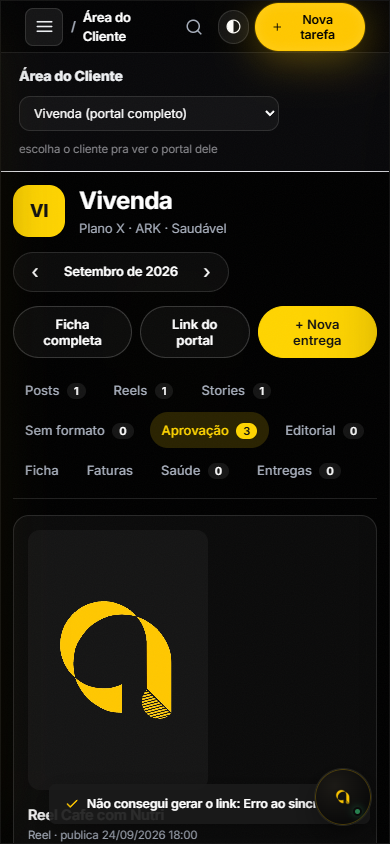
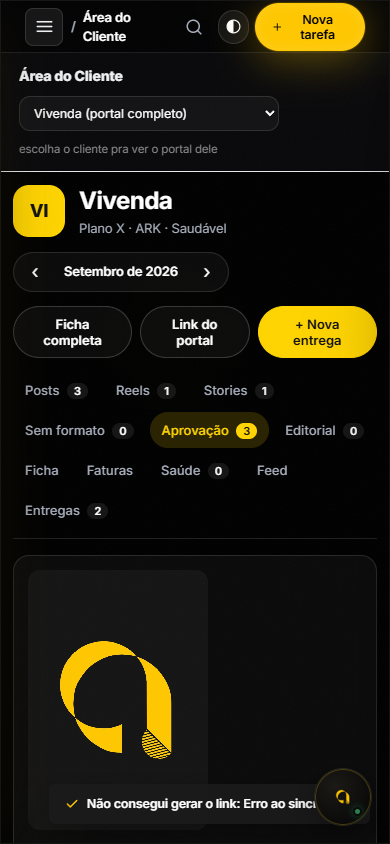
Área do Cliente: prévia do feed, a grade do perfil como o cliente vai ver, marcador 20260922f-feed-cliente
Segunda metade da tela 5 do doc 11. Aba Feed com a grade de 3 colunas, na ordem de
publicação (mais novo primeiro, sem data por último), story fora porque não entra na grade
do perfil, e contorno amarelo no que ainda vai publicar, com a data e o aviso de quem
ainda espera o cliente.

Lógica no módulo puro src/lib/feed.js, teste escrito antes em deploy/teste-feed.mjs
(10 asserções verdes); a tela espelha o módulo. Par do cliente vira 20260922d.

Prova: deploy/prova-aprovacao.py confere 3 itens na grade, 3 artes carregadas e 1 marcado
como futuro, mais a captura da grade. teste:mobile e os testes de entregas e aprovação
verdes.

diff --git a/public/workflowark-cliente-20260922d.js b/public/workflowark-cliente-20260922d.js
@@ -106,6 +106,44 @@
       };
     });
   }
+  /* ===== PREVIA DO FEED (tela 5 do doc 11, 22/09/2026) =====
+     Espelho de src/lib/feed.js (testado em deploy/teste-feed.mjs). Story fica fora: nao
+     aparece na grade do perfil. */
+  var FEED_FORA = ["story", "stories"];
+  function feedDerivar(tarefas, limite) {
+    var agora = Date.now();
+    return (tarefas || [])
+      .filter(function (t) {
+        return (
+          FEED_FORA.indexOf(String(t.formato || "").toLowerCase()) < 0 &&
+          (t.status === "concluido" || t.status === "homologcli")
+        );
+      })
+      .map(function (t) {
+        var pv = aprPrevia(aprAnexos(t));
+        if (!pv || pv.tipo !== "imagem") return null;
+        var quando = String(t.publicarEm || "");
+        return {
+          id: t.id,
+          titulo: t.title || "(sem titulo)",
+          formato: t.formato || "",
+          proporcao: APR_PROP[String(t.formato || "").toLowerCase()] || "4:5",
+          publicarEm: quando,
+          futuro: !!quando && new Date(quando).getTime() > agora,
+          aprovado: t.status === "concluido",
+          previa: pv,
+        };
+      })
+      .filter(Boolean)
+      .sort(function (a, b) {
+        if (!a.publicarEm && !b.publicarEm) return 0;
+        if (!a.publicarEm) return 1;
+        if (!b.publicarEm) return -1;
+        return b.publicarEm.localeCompare(a.publicarEm);
+      })
+      .slice(0, limite || 12);
+  }
+
   function editorial() {
     try {
       var a = JSON.parse(localStorage.getItem("wfa-editorial") || "[]");
@@ -256,6 +294,7 @@
       ["ficha", "Ficha", ""],
       ["faturas", "Faturas", ""],
       ["saude", "Saúde", atras.length],
+      ["feed", "Feed", ""],
       ["entregas", "Entregas", todas.filter(function (t) { return t.status === "concluido" && ((t.attachments || []).length || t.legenda || t.publicarEm); }).length],
     ];
     var html =
@@ -476,6 +515,25 @@
             return '<div class="nxc-row" data-tid="' + esc(t.id) + '" onclick="openTaskDetail(this.getAttribute(&quot;data-tid&quot;))" style="cursor:pointer"><span class="nxc-dot" style="background:#4ade80"></span><span class="t"><b>' + esc(t.title || "") + '</b><span>' + (t.formato ? FMT[t.formato] + " · " : "") + (t.publicarEm ? "publica " + brData(t.publicarEm) : "entregue " + brData(t.concluidaEm)) + (links.length ? " · " + links.length + " arquivo(s)" : " · sem arquivo") + '</span></span>' + (links.length ? '<a class="nxc-mini" href="' + esc(links[0].url) + '" target="_blank" rel="noreferrer" onclick="event.stopPropagation()">Abrir</a>' : "") + "</div>";
           }).join("") + '</div><p class="nxc-mute" style="margin-top:10px;font-size:12px">É isto que o cliente vê no portal (link sem login). Anexe o arquivo ou o link do Drive na tarefa antes de concluir.</p>'
         : '<div class="nxc-empty">Nenhuma entrega concluída com arquivo, legenda ou data ainda.</div>';
+    } else if (ABA === "feed") {
+      var grade = feedDerivar(todas, 12);
+      html += grade.length
+        ? '<p class="nxc-mute" style="font-size:12px;margin:0 0 12px">Como o perfil vai ficar, na ordem de publica\u00e7\u00e3o. Story fica de fora porque n\u00e3o entra na grade.</p>' +
+          '<div class="feed-grade">' +
+          grade
+            .map(function (g) {
+              return (
+                '<figure class="feed-item' + (g.futuro ? " futuro" : "") + '" title="' + esc(g.titulo) + '">' +
+                '<img src="' + esc(g.previa.url) + '" alt="' + esc(g.titulo) + '" loading="lazy" onerror="this.parentNode.classList.add(\'quebrada\')">' +
+                '<figcaption>' +
+                (g.publicarEm ? brData(g.publicarEm) : "sem data") +
+                (g.aprovado ? "" : " \u00b7 esperando o cliente") +
+                "</figcaption></figure>"
+              );
+            })
+            .join("") +
+          "</div>"
+        : '<div class="nxc-empty">Sem arte anexada ainda. O feed aparece quando as tarefas tiverem imagem.</div>';
     } else if (ABA === "saude") {
       var parada = aprov.filter(function (t) {
         return t.aprovacaoEm && Date.now() - new Date(t.aprovacaoEm).getTime() > 3 * 86400000;

diff --git a/src/lib/feed.js b/src/lib/feed.js
@@ -1,0 +1,63 @@
+// Prévia do feed do cliente (tela 5 do doc 11, 22/09/2026). Módulo puro: monta a grade do
+// perfil do Instagram com as artes das tarefas, na ordem em que o cliente vai ver.
+// Testado em deploy/teste-feed.mjs. A tela do /app espelha estas regras.
+
+import { derivarAprovacoes } from "./aprovacao.js";
+
+const norm = (s) =>
+  String(s || "")
+    .normalize("NFD")
+    .replace(/[̀-ͯ]/g, "")
+    .trim()
+    .toLowerCase();
+
+// Story não aparece na grade do perfil, então fica fora da prévia.
+const FORA = ["story", "stories"];
+const PROPORCAO = { reel: "9:16", reels: "9:16", carrossel: "1:1", carousel: "1:1" };
+
+function doCliente(t, clienteNorm) {
+  if (!t) return false;
+  const id = norm(t.clienteId);
+  if (id && id === clienteNorm) return true;
+  return !id && !!clienteNorm && norm(t.title).includes(clienteNorm);
+}
+
+function previa(t) {
+  // Reaproveita a escolha de arte da aba Aprovação: imagem ganha do vídeo, e a regra de
+  // anexo válido é a mesma. Passa uma tarefa só, em homologação, pro módulo devolver a prévia.
+  const [item] = derivarAprovacoes([{ ...t, status: "homologcli" }], t.clienteId || "", null);
+  return item ? item.previa : null;
+}
+
+export function derivarFeed(tarefas, cliente, agoraIso, limite) {
+  const c = norm(cliente);
+  const agora = new Date(agoraIso || Date.now()).getTime();
+  return (Array.isArray(tarefas) ? tarefas : [])
+    .filter((t) => doCliente(t, c))
+    .filter((t) => !FORA.includes(norm(t.formato)))
+    .filter((t) => t.status === "concluido" || t.status === "homologcli")
+    .map((t) => {
+      const pv = previa(t);
+      if (!pv) return null;
+      const quando = String(t.publicarEm || "");
+      return {
+        id: t.id,
+        titulo: t.title || "(sem título)",
+        formato: t.formato || "",
+        proporcao: PROPORCAO[norm(t.formato)] || "4:5",
+        publicarEm: quando,
+        futuro: !!quando && new Date(quando).getTime() > agora,
+        aprovado: t.status === "concluido",
+        previa: pv,
+      };
+    })
+    .filter(Boolean)
+    .sort((a, b) => {
+      // Ordem do perfil: o mais novo primeiro. Sem data vai pro fim, não pro topo.
+      if (!a.publicarEm && !b.publicarEm) return 0;
+      if (!a.publicarEm) return 1;
+      if (!b.publicarEm) return -1;
+      return b.publicarEm.localeCompare(a.publicarEm);
+    })
+    .slice(0, limite || 12);
+}

diff --git a/public/workflowark.html b/public/workflowark.html
@@ -1,4 +1,4 @@
-<!-- build 20260922e-midia-cartao -->
+<!-- build 20260922f-feed-cliente -->
 <html lang="pt-BR">
 <head>
 <meta charset="utf-8">
@@ -49,7 +49,7 @@
 <link href="https://fonts.googleapis.com/css2?family=Inter:wght@400;500;600;700;800&family=Sora:wght@400;500;600;700;800&family=JetBrains+Mono:wght@500;600&display=swap" rel="stylesheet">
 <script src="https://cdn.jsdelivr.net/npm/animejs@4/lib/anime.iife.min.js" defer></script>
 <link rel="stylesheet" href="workflowark-20260915a.css">
-<link rel="stylesheet" href="workflowark-cliente-20260922c.css">
+<link rel="stylesheet" href="workflowark-cliente-20260922d.css">
 <style>.side-foot .av{min-width:34px;width:34px;height:34px;overflow:hidden;flex:none}.side-foot .av img{width:100%;height:100%;object-fit:cover;border-radius:50%;display:block}.side.compact .side-foot .av{min-width:34px}
 /* descrição da tarefa: cresce com o texto, legível (pedido 21/09, ref. Trello) */
 #td-desc{min-height:168px;max-height:52vh;font-size:14.5px;line-height:1.65;padding:14px 16px;resize:vertical;overflow:auto;white-space:pre-wrap}
@@ -4404,6 +4404,6 @@ function wfaSetTheme(t){
 <div class="toast" id="toast"><svg viewBox="0 0 24 24" fill="none" stroke="currentColor" stroke-width="2.5" stroke-linecap="round" stroke-linejoin="round"><polyline points="20 6 9 17 4 12"/></svg><span id="toast-msg">Pronto</span></div>
 
 <script src="workflowark-app-20260922a.js"></script>
-<script src="workflowark-cliente-20260922c.js" defer></script>
+<script src="workflowark-cliente-20260922d.js" defer></script>
 </body>
 </html>

diff --git a/public/workflowark-cliente-20260922d.css b/public/workflowark-cliente-20260922d.css
@@ -92,3 +92,11 @@ body.aura-light .nxc-box input,body.aura-light .nxc-box textarea{color-scheme:li
 .nxc-card-midia.r4x5{aspect-ratio:4/5}
 .nxc-card-midia.r1x1{aspect-ratio:1/1}
 .nxc-card-midia img{width:100%;height:100%;object-fit:cover;display:block}
+/* Previa do feed (22/09/2026): a grade do perfil, 3 colunas, sem respiro, igual ao Instagram. */
+.feed-grade{display:grid;grid-template-columns:repeat(3,1fr);gap:3px;max-width:560px}
+.feed-item{margin:0;position:relative;aspect-ratio:4/5;overflow:hidden;background:rgba(255,255,255,.04)}
+.feed-item img{width:100%;height:100%;object-fit:cover;display:block}
+.feed-item.quebrada img{display:none}
+.feed-item figcaption{position:absolute;left:0;right:0;bottom:0;padding:5px 7px;font-size:10px;line-height:1.3;color:#fff;background:linear-gradient(to top,rgba(0,0,0,.72),transparent)}
+.feed-item.futuro::after{content:"";position:absolute;inset:0;border:2px solid #FFC700;pointer-events:none}
+@media (max-width:520px){.feed-grade{max-width:100%}}

diff --git a/deploy/prova-aprovacao.py b/deploy/prova-aprovacao.py
@@ -47,6 +47,14 @@ tarefas = [
      'clienteId': 'vivenda', 'formato': 'carrossel', 'concluidaEm': d(-1) + 'T10:00:00.000Z', 'up': agora},
     {'id': 'ap4', 'title': 'Post revisao interna', 'status': 'aprovacao', 'resp': 'Lucas Rosi',
      'clienteId': 'vivenda', 'formato': 'estatico', 'data': d(1), 'up': agora},
+    {'id': 'ap5', 'title': 'Post Semana do Consumidor', 'status': 'concluido', 'resp': 'Bruno',
+     'clienteId': 'vivenda', 'formato': 'estatico', 'publicarEm': d(-2) + 'T12:00',
+     'concluidaEm': d(-2) + 'T10:00:00.000Z',
+     'attachments': [{'nome': 'arte.png', 'url': ARTE, 'tipo': 'imagem'}], 'up': agora},
+    {'id': 'ap6', 'title': 'Carrossel bastidores', 'status': 'concluido', 'resp': 'Bruno',
+     'clienteId': 'vivenda', 'formato': 'carrossel', 'publicarEm': d(-5) + 'T12:00',
+     'concluidaEm': d(-5) + 'T10:00:00.000Z',
+     'attachments': [{'nome': 'p1.png', 'url': ARTE, 'tipo': 'imagem'}], 'up': agora},
 ]
 seed = ("localStorage.setItem('sb-fxfnonozzekxnxddxsnh-auth-token',%s);"
         "localStorage.setItem('wfa-theme','dark');"
@@ -135,6 +143,15 @@ with sync_playwright() as pw:
     alvo2 = p.query_selector('.nxc-card')
     if alvo2:
         alvo2.screenshot(path=f'deploy/prova-aprovacao-{fase}-cartao-post.png')
+    # Item 5: previa do feed
+    p.evaluate("() => { if (typeof nxCliAba === 'function') nxCliAba('feed'); }")
+    p.wait_for_timeout(800)
+    print('itens no feed:', p.evaluate("() => document.querySelectorAll('.feed-item').length"),
+          '| artes carregadas:', p.evaluate("() => [...document.querySelectorAll('.feed-item img')].filter(i => i.naturalWidth > 0).length"),
+          '| marcados como futuros:', p.evaluate("() => document.querySelectorAll('.feed-item.futuro').length"))
+    fg = p.query_selector('.feed-grade')
+    if fg:
+        fg.screenshot(path=f'deploy/prova-aprovacao-{fase}-feed.png')
     print('erros de pagina:', erros or 'nenhum')
     b.close()
 if srv: srv.shutdown()
